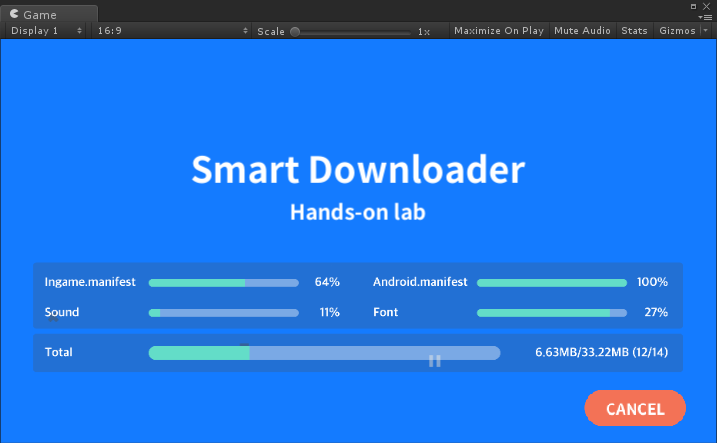
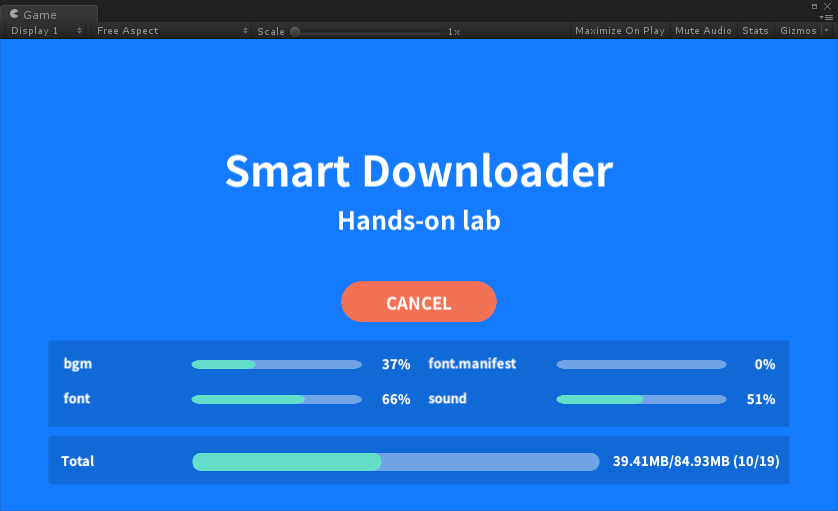
Modify feedback

Changed region(s): [[0.0307, 0.5282, 0.9819, 0.9684], [0.2455, 0.2935, 0.7364, 0.4989], [0.0, 0.0, 1.0, 0.088]]

diff --git a/site/06.rst b/site/06.rst
@@ -7,6 +7,8 @@ SmartDownloader API 적용
 
 .. code-block:: C#
 
+    // Assets/TOAST/HandsOnLab/SmartDL/Scripts/SmartDownloader.cs
+
    public static ProgressInfo DownloadProgress
    {
        get
@@ -19,31 +21,36 @@ SmartDownloader API 적용
 UI 구현
 =====================
 
-UI에 표시하기 위해 SmartDlExampleView.cs 파일에서 구현합니다.
+UI에 표시하기 위해 DownloadView.cs 파일에서 구현합니다.
 
 .. code-block:: C#
 
+    // Assets/TOAST/HandsOnLab/SmartDL/Scripts/DownloadView.cs
+    
     void Update()
     {
-        var progress = SmartDlExample.DownloadProgress;
-       
-        totalDownloadProgress.Percentage = progress.Percentage;
+        var progress = SmartDownloader.DownloadProgress;
+        if (progress == null)
+        {
+            return;
+        }
+
+        totalProgress.Percentage = progress.Percentage;
 
         if (progress.TotalFileBytes == 0)
         {
-            totalDownloadStatusText.text =
-                LocalizationManager.Instance.GetLocalizedValue("Checking for resources.");
+            messageText.text = RESOURCE_DOWNLOAD_WAIT;
         }
         else
         {
             uint completedCount = progress.CompletedFileCount;
             uint totalCount = progress.TotalFileNumber;
 
-            totalDownloadStatusText.text = string.Format("{0}/{1} ({2}/{3})",
-                StringUtil.BytesToString(
-                    progress.TotalReceivedBytes),
-                    StringUtil.BytesToString(progress.TotalFileBytes),
+            totalStatusText.text = string.Format("{0}/{1} ({2}/{3})",
+                StringUtil.BytesToString(progress.TotalReceivedBytes),
+                StringUtil.BytesToString(progress.TotalFileBytes),
                 completedCount, totalCount);
+            messageText.text = string.Empty;
 
             if (progress.FileMap != null)
             {
@@ -54,13 +61,13 @@ UI에 표시하기 위해 SmartDlExampleView.cs 파일에서 구현합니다.
                     ExpandBackground(true);
                 }
 
-                downloadResourceView.ThreadCount = threadCount;
+                resourceProgressGroup.ThreadCount = threadCount;
                 for (int i = 0; i < threadCount; i++)
                 {
                     var file = progress.FileMap[i];
-                    float filePercentage = (file.DownloadedBytes / (float)file.TotalBytes) * 100.0f;
-                    downloadResourceView[i].FileName = file.FileName;
-                    downloadResourceView[i].ProgressStatus(filePercentage);
+                    resourceProgressGroup[i].FileName = file.FileName;
+                    resourceProgressGroup[i].ProgressStatus(
+                        Mathf.Min(100f, (file.DownloadedBytes / (float)file.TotalBytes) * 100.0f));
                 }
             }
         }
@@ -72,7 +79,7 @@ UI에 표시하기 위해 SmartDlExampleView.cs 파일에서 구현합니다.
 
 1. 샘플 씬에서 플레이 버튼을 눌러 게임을 실행합니다.
 
-2. 화면에서 **Download** 버튼을 누릅니다.
+2. 화면에서 **DOWNLOAD** 버튼을 누릅니다.
 
     .. image:: _static/image/sdk_sample_download_ui_intro.png
 
@@ -83,3 +90,9 @@ UI에 표시하기 위해 SmartDlExampleView.cs 파일에서 구현합니다.
 4. 다운로드가 완료되면 결과 팝업이 출력됩니다.
 
     .. image:: _static/image/sdk_sample_download_ui_result.png
+
+5. 결과 팝업을 닫고 **OPEN PATH** 버튼을 누르면 다운로드 경로로 이동하며 다운로드된 파일을 확인합니다.
+
+    .. image:: _static/image/sdk_download_path.png
+
+6. 다음 진행을 위해 **DELETE CACHE** 버튼을 눌러 다운로드된 파일을 삭제합니다.

diff --git a/site/05.rst b/site/05.rst
@@ -9,7 +9,9 @@ SmartDownloader API 적용
 
 .. code-block:: C#
 
-   public static void StartDownload(params string[] paths)
+    // Assets/TOAST/HandsOnLab/SmartDL/Scripts/SmartDownloader.cs
+
+   public static void StartDownload(Action<DownloadResult> callback, params string[] paths)
    {
        downloadConfig.ClearSpecifyPath();
 
@@ -21,21 +23,40 @@ SmartDownloader API 적용
            }
        }
        
-       ...
+       // 4. 전체 다운로드에서 구현했던 내용 유지
    }
 
 
 UI 구현
 =====================
 
-UI에 표시하기 위해 SmartDlExampleView.cs 파일에서 구현합니다.
+1. 부분 다운로드를 위해서는 업로드된 리소스의 폴더 구조를 확인합니다.
 
-.. code-block:: C#
+    .. image:: _static/image/console_service_resources_viewer.png
 
-    public void ClickDownloadButton()
-    {
-        SmartDlExample.StartDownload(@"/characters");
-    }
+2. 다운로드 받을 파일을 선택합니다.
+
+    * /Sample/stage 폴더 내 리소스 전부
+    * /Sample/Sample.manifest
+
+3. UI에 표시하기 위해 MainView.cs 파일에서 구현합니다.
+
+    .. code-block:: C#
+
+        // Assets/TOAST/HandsOnLab/SmartDL/Scripts/MainView.cs
+        
+        public void OnStartDownload()
+        {
+            HandsOnLabView.Instance.StartDownloaded();
+            SmartDownloader.StartDownload(
+                result =>
+                {
+                    string resultMessage = result.ToString();
+                    HandsOnLabView.Instance.FinishDownload(resultMessage);
+                },
+                @"/Sample/stage",
+                @"/Sample/Sample.manifest");
+        }
 
 
 실행 결과
@@ -43,10 +64,16 @@ UI에 표시하기 위해 SmartDlExampleView.cs 파일에서 구현합니다.
 
 1. 샘플 씬에서 플레이 버튼을 눌러 게임을 실행합니다.
 
-2. 화면에서 **Download** 버튼을 누릅니다.
+2. 화면에서 **DOWNLOAD** 버튼을 누릅니다.
 
     .. image:: _static/image/sdk_sample_download_ui_intro.png
 
 3. 다운로드가 완료되면 결과 팝업이 출력됩니다.
 
     .. image:: _static/image/sdk_sample_download_ui_result.png
+
+4. 결과 팝업을 닫고 **OPEN PATH** 버튼을 누르면 다운로드 경로로 이동하며 다운로드된 파일을 확인합니다.
+
+    .. image:: _static/image/sdk_download_path.png
+
+5. 다음 진행을 위해 **DELETE CACHE** 버튼을 눌러 다운로드된 파일을 삭제합니다.

diff --git a/site/04.rst b/site/04.rst
@@ -7,7 +7,9 @@ SmartDownloader API 적용
 
 .. code-block:: C#
 
-    public static void StartDownload()
+    // Assets/TOAST/HandsOnLab/SmartDL/Scripts/SmartDownloader.cs
+
+    public static void StartDownload(Action<DownloadResult> callback)
     {
         SmartDl.StartDownload(
             SMART_DL_APPKEY, 
@@ -16,14 +18,7 @@ SmartDownloader API 적용
             downloadConfig, 
             result =>
             {
-                if (result.IsSuccessful)
-                {
-                    Debug.Log("Success to download");
-                }
-                else
-                {
-                    Debug.Log(string.Format("Fail to download [{0}]", result));
-                }
+                callback(result);
             });
     }
 
@@ -35,9 +30,17 @@ UI에 표시하기 위해 MainView.cs 파일에서 구현합니다.
 
 .. code-block:: C#
 
-    public void OnDownloadStart()
+    // Assets/TOAST/HandsOnLab/SmartDL/Scripts/MainView.cs
+    
+    public void OnStartDownload()
     {
-        SmartDlExample.StartDownload();
+        HandsOnLabView.Instance.StartDownloaded();
+        SmartDownloader.StartDownload(
+            result =>
+            {
+                string resultMessage = result.ToString();
+                HandsOnLabView.Instance.FinishDownload(resultMessage);
+            });
     }
 
 
@@ -46,10 +49,16 @@ UI에 표시하기 위해 MainView.cs 파일에서 구현합니다.
 
 1. 샘플 씬에서 플레이 버튼을 눌러 게임을 실행합니다.
 
-2. 화면에서 **Download** 버튼을 누릅니다.
+2. 화면에서 **DOWNLOAD** 버튼을 누릅니다.
 
     .. image:: _static/image/sdk_sample_download_ui_intro.png
 
 3. 다운로드가 완료되면 결과 팝업이 출력됩니다.
 
     .. image:: _static/image/sdk_sample_download_ui_result.png
+
+4. 결과 팝업을 닫고 **OPEN PATH** 버튼을 누르면 다운로드 경로로 이동하며 다운로드된 파일을 확인합니다.
+
+    .. image:: _static/image/sdk_download_path.png
+
+5. 다음 진행을 위해 **DELETE CACHE** 버튼을 눌러 다운로드된 파일을 삭제합니다.

diff --git a/site/07.rst b/site/07.rst
@@ -7,6 +7,8 @@
 
 .. code-block:: C#
 
+    // Assets/TOAST/HandsOnLab/SmartDL/Scripts/SmartDownloader.cs
+
    public static void StopDownload()
    {
        SmartDl.StopDownload();
@@ -16,13 +18,15 @@ UI 구현
 ===================
 
 
-UI에 표시하기 위해 SmartDlExampleView.cs 파일에서 구현합니다.
+UI에 표시하기 위해 MainView.cs 파일에서 구현합니다.
 
 .. code-block:: C#
 
-    public void ClickCancelButton()
+    // Assets/TOAST/HandsOnLab/SmartDL/Scripts/MainView.cs
+
+    public void OnStopDownload()
     {
-        SmartDlExample.StopDownload();
+        SmartDownloader.StopDownload();
     }
    
 
@@ -31,11 +35,11 @@ UI에 표시하기 위해 SmartDlExampleView.cs 파일에서 구현합니다.
 
 1. 샘플 씬에서 플레이 버튼을 눌러 게임을 실행합니다.
 
-2. 화면에서 **Download** 버튼을 누릅니다.
+2. 화면에서 **DOWNLOAD** 버튼을 누릅니다.
 
     .. image:: _static/image/sdk_sample_download_ui_intro.png
 
-3. 다운로드가 진행되면 하단에 **Cancel** 버튼을 눌러 다운로드를 취소합니다.
+3. 다운로드가 진행되면 하단에 **CANCEL** 버튼을 눌러 다운로드를 취소합니다.
 
     .. image:: _static/image/sdk_sample_download_ui_progress.png
 

diff --git a/site/02.rst b/site/02.rst
@@ -14,7 +14,7 @@ SDK 다운로드
 샘플 코드 다운로드
 =====================
 
-``다운로드 경로 확정 시 작성필요``
+`SmartDownloader-HandsOnLab.unitypackage 다운로드 <http://static.toastoven.net/toastcloud/sdk_download/Smart%20Downloader/HandsOnLab/SmartDownloader-HandsOnLab.unitypackage>`_
 
 Unity 프로젝트 설정
 =====================
@@ -31,7 +31,7 @@ Unity 프로젝트 설정
 샘플 씬 열기
 =====================
 
-* 경로 : Assets/SmartDL-HandsOnLab/Scenes/ExampleSmartDl.scene
+* 경로 : Assets/TOAST/HandsOnLab/SmartDL/Scenes/SmartDlHandsOnLab.scene
 
 * 이번 핸즈온랩에서 구현되는 모든 내용은 샘플 씬에서 진행됩니다.
 
